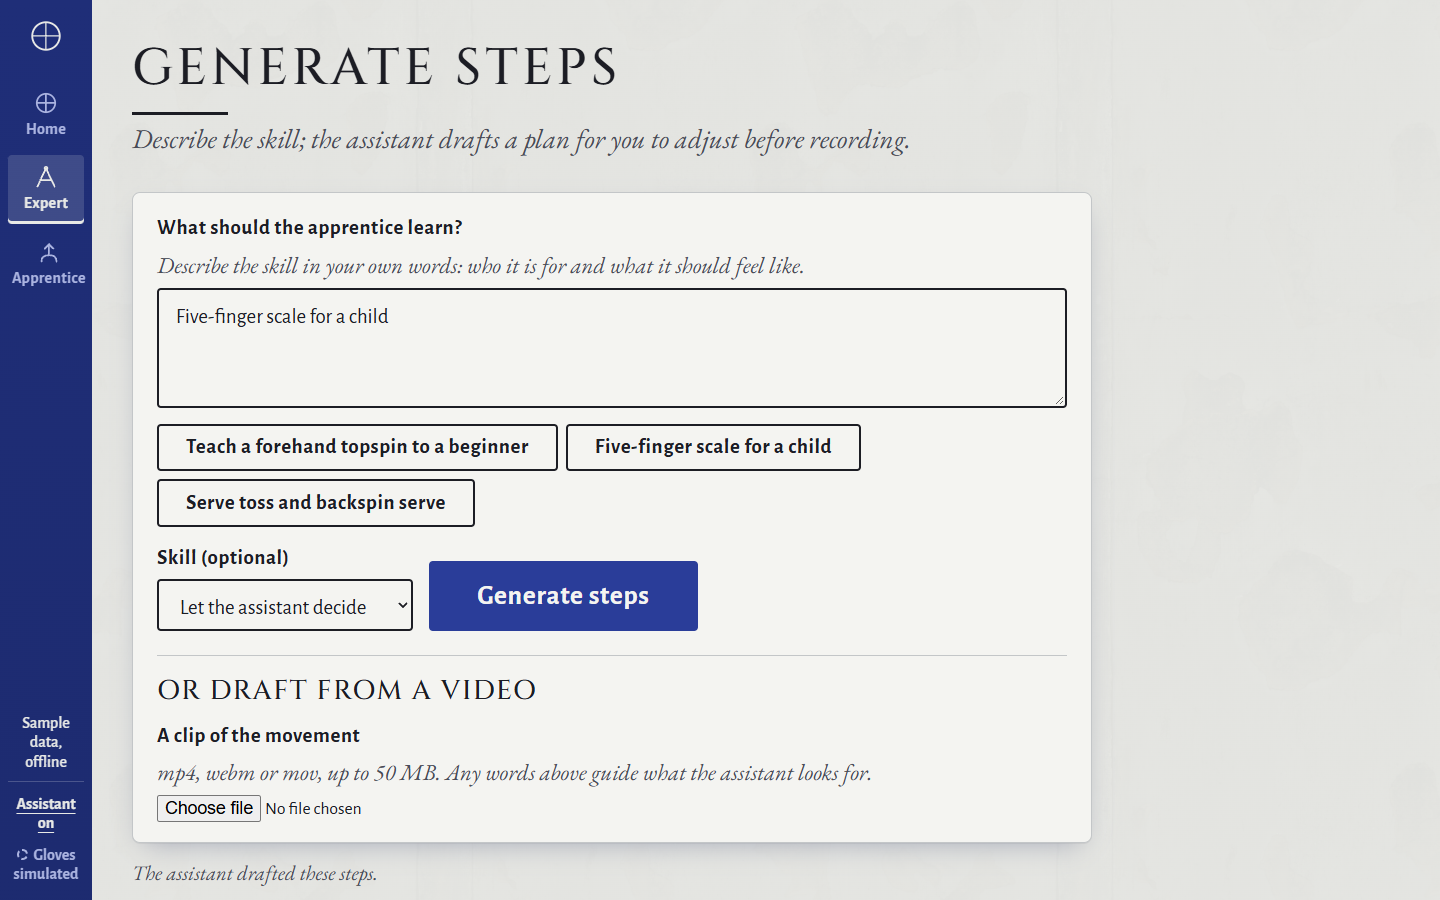
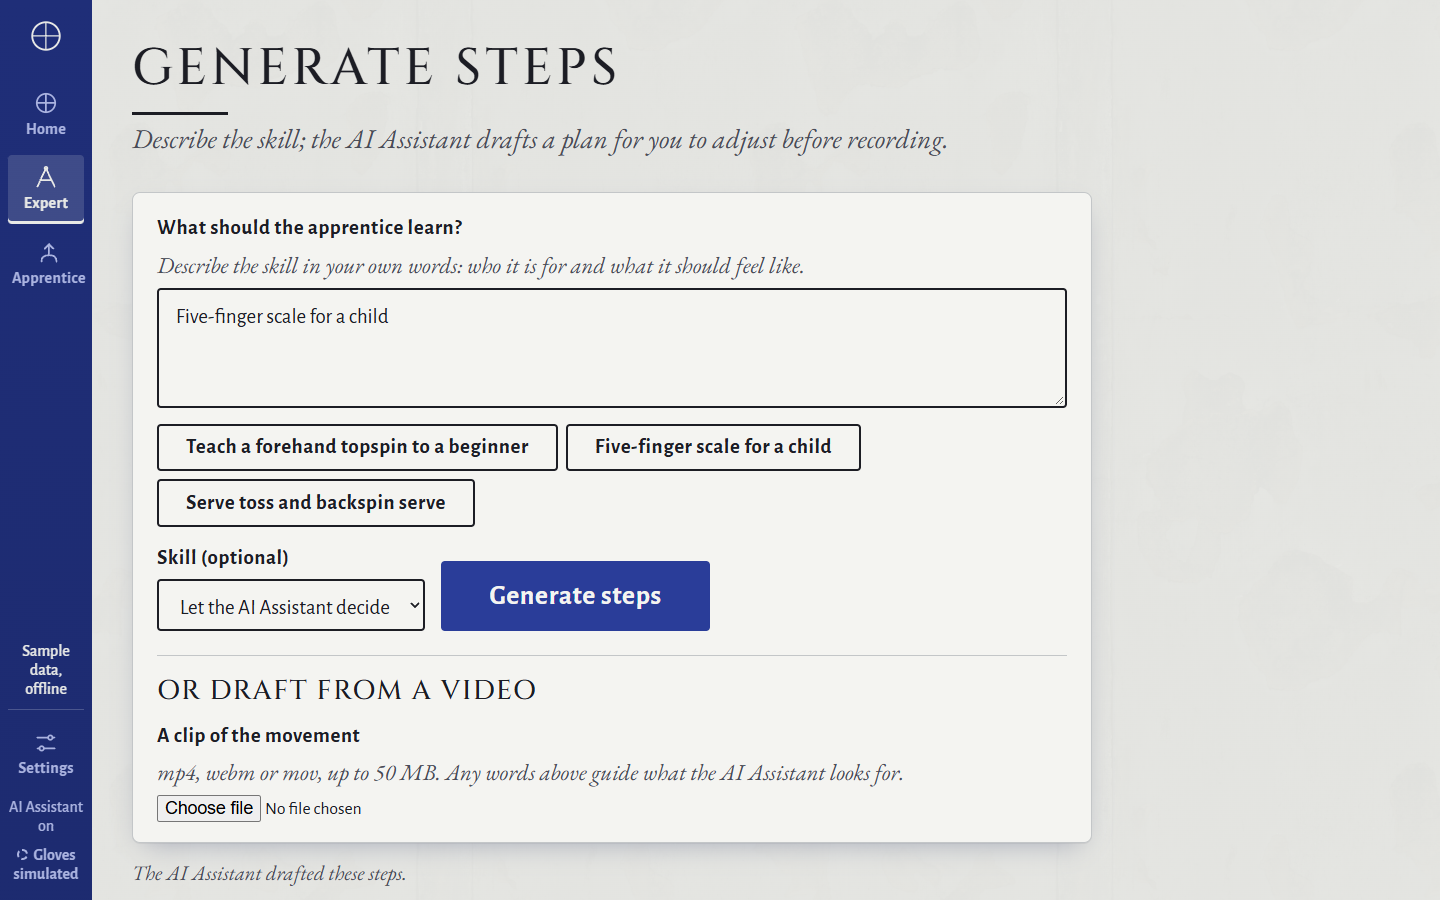
Add the settings walk, refresh screens and document Settings and the margin
settings-walk.mjs checks the dialog, persistence, AI Assistant gating, the margin on the score and the score flip at desktop and phone width. mock-walk switches the AI Assistant through Settings. CLAUDE.md, the READMEs and ARCHITECTURE.md describe Settings, the margin of error, the score views and the AI Assistant naming.

diff --git a/frontend/README.md b/frontend/README.md
@@ -27,13 +27,25 @@ The skill catalogue (names, descriptions, difficulty, keywords, hands, time to l
 
 See `ARCHITECTURE.md` for the folder map and rules.
 
-## The assistant switch
+## Settings
 
-`src/features/shared/assistant.ts` holds one flag for every language-model feature (`useAssistant()` in components, `isAssistantOn()` elsewhere), stored in localStorage as `apprentice.assistant` and on by default. The switch is the "Assistant on/off" text button in the rail footer (`app/AppShell.tsx`). While it is off, `api/client.ts` throws `AssistantOffError` for the paths in `ASSISTANT_PATHS` before any `fetch` or upload, and the mock router answers them with 403 as a second lock. Screens hide those entry points with a one-line note: Generate steps offers "Write the steps yourself" and "Start from scratch instead", "Describe the movement" becomes a note, and the plan card and the expert's note from the plan are hidden. `tests/assistant.test.ts` checks that no gated call reaches the network. In user copy the model is always "the assistant"; provider names appear only in the dev panel.
+"Settings" in the rail footer (`app/AppShell.tsx`; on a phone the last item of the bottom bar) opens `src/features/shared/SettingsDialog.tsx`: a modal dialog (focus moves in and is trapped, Escape or the scrim closes it, focus returns to the button, the app behind is `inert`). It holds the AI Assistant switch, the margin of error (four radio choices), the score view (3D scene or flat chart), "Add a prop" and "Reduce motion". `src/features/shared/settings.ts` stores them in localStorage (`apprentice.margin`, `apprentice.scoreView`, `apprentice.reduceMotion`; every read and write in try/catch) and exposes `useMargin`, `useScoreView`, `useReducedMotion` and `prefersReducedMotion()`. Reduce motion sets `data-reduce-motion` on `<html>`, which `styles/global.css` treats like the system preference. `e2e/settings-walk.mjs` checks the dialog, the switches, persistence, the margin on the score and the score flip at desktop and phone width.
+
+## Margin of error
+
+`src/api/margin.ts` mirrors `MARGIN_MULTIPLIERS` from the backend (strict 0.6, standard 1, relaxed 1.5, just_trying 2.5). The training room sends `margin` with every `POST /score`, builds the live coach band with `configFromTolerance(step.tolerance, margin)` (strings, fault rings, tints, tips, the match meter and the offline local score all read it), and shows the widened room for error. The score card says which margin judged the rep (`ScoreResult.margin`). `training/score/scoreRules.ts` keeps gold for mastery under the standard or strict margin only. The mock port (`mock/scoring.ts`, `mock/router.ts`) applies the same thresholds; `tests/mock-scoring.test.ts` pins margin values from the Python scorer and `tests/settings.test.ts` covers the store, the live band and the mock routes.
+
+## Score views
+
+`training/ScoreCard.tsx` shows the score through `training/score/ScoreView.tsx`: the 3D scene (`ScoreScene.tsx`, lazy loaded; the wooden hand on the bench, the overall score on a plaster plaque whose rule is gold only at mastery, each finger's score on a leader line, malachite when it held the shape and vermilion for the one correction) or the flat chart (`ScoreChart.tsx`, thick high-contrast bars with a tick at the clean mark 70). Settings picks which opens first; clicking, tapping, Enter or Space on the 3D scene flips it to the chart, and clicking the chart or "Show in 3D" flips back. Below 620 px the scene stacks its notes across the top and leaves out the plaque, so nothing covers the hand. The scene reuses `design/scene.tsx`, `design/Leaders.tsx` and `design/guild3d.tsx` from the round 3 prototypes, and falls back to the chart if WebGL fails.
+
+## The AI Assistant switch
+
+`src/features/shared/assistant.ts` holds one flag for every language-model feature (`useAssistant()` in components, `isAssistantOn()` elsewhere), stored in localStorage as `apprentice.assistant` and on by default. The switch is "Enable AI Assistant" in Settings; the rail footer shows "AI Assistant on" or "off" as plain text. While it is off, `api/client.ts` throws `AssistantOffError` for the paths in `ASSISTANT_PATHS` before any `fetch` or upload, and the mock router answers them with 403 as a second lock. Screens hide those entry points with a one-line note: Generate steps offers "Write the steps yourself" and "Start from scratch instead", "Describe the movement" becomes a note, and the plan card and the expert's note from the plan are hidden. `tests/assistant.test.ts` checks that no gated call reaches the network. In user copy the model is always "the AI Assistant"; provider names appear only in the dev panel.
 
 ## Hands and props
 
-`src/features/shared/sessionPrefs.ts` keeps two per-session stage preferences in sessionStorage: whether props are drawn (`useShowProps`, off by default, switched by `PropSwitch`) and the expert's hands choice per move (`defaultHands`, `rememberHands`; the default is the move's catalogue `hands`, else the last choice, else one hand, right). `HandsControl` (expert studio, step editor and the record dialog) sets one hand left or right or two hands, collapses into a summary once a take exists, and the take is recorded with `hands`. The training room coaches one hand of a two-handed step at a time (the learner picks which) and scores both with one `/score` call per side (`training/coach/twoHands.ts`). The Test your skills scenes always draw their racket and keyboard.
+`src/features/shared/sessionPrefs.ts` keeps two stage preferences: whether props are drawn (`useShowProps`, off by default, switched by `PropSwitch` or in Settings, kept in localStorage) and, per session in sessionStorage, the expert's hands choice per move (`defaultHands`, `rememberHands`; the default is the move's catalogue `hands`, else the last choice, else one hand, right). `HandsControl` (expert studio, step editor and the record dialog) sets one hand left or right or two hands, collapses into a summary once a take exists, and the take is recorded with `hands`. The training room coaches one hand of a two-handed step at a time (the learner picks which) and scores both with one `/score` call per side (`training/coach/twoHands.ts`). The Test your skills scenes always draw their racket and keyboard.
 
 ## Themes
 
@@ -94,7 +106,7 @@ What it does:
 - Lessons (with the two seed lessons), calibrations, recordings and the dev state persist in localStorage (memory if storage is blocked). Clear the keys starting `apprentice.mock.v1.` to reset.
 - A simulated glove stream at about 60 Hz with two hands, `set_motion` support, and a light 9 to 11 Hz tremor that the steadiness and smoothing settings (One Euro filter, same as the backend) reduce. Recording and calibration capture from this stream.
 - `/score` is a pure TypeScript port of `backend/app/services/scoring.py` (per-finger DTW, total-flexion error, Gaussian mapping, calibration, hints). `tests/mock-scoring.test.ts` pins it to numbers produced by the Python scorer.
-- LLM routes (`lessons/generate`, `generate_from_video`, `motion/from_text`, `coach/plan`) use the deterministic templates of the backend fake provider and report `provider: "mock"`. `/coach/hint` is algorithmic. All five answer 403 while the assistant switch is off. `/vision/hands` answers 503. `/ingest/frames` feeds frames into the mock stream once the source is `external`.
+- LLM routes (`lessons/generate`, `generate_from_video`, `motion/from_text`, `coach/plan`) use the deterministic templates of the backend fake provider and report `provider: "mock"`. `/coach/hint` is algorithmic. All five answer 403 while the AI Assistant is off. `/score` and `/coach/hint` accept `margin` like the backend. `/vision/hands` answers 503. `/ingest/frames` feeds frames into the mock stream once the source is `external`.
 - Errors use the backend's status codes and `{detail}` body; unknown routes give 404.
 
 Walk the whole app in mock mode with `node e2e/mock-walk.mjs` (screenshots go to `docs/screens/mock-*.png`). The move catalogue and seed lessons in `src/mock/data/` are copies of `backend/app/data`; refresh them if the backend ones change.

diff --git a/README.md b/README.md
@@ -1,6 +1,6 @@
 # Apprentice
 
-Apprentice is a hand-skill trainer built for Junction 2026 (Rokoko Smartgloves II track). An expert records a skill with Rokoko gloves, and a learner trains against it in 3D with marionette strings, a ghost hand and a shadow as guidance. Each attempt is scored per finger with dynamic time warping (DTW), an optional assistant (a language model, Gemini by default) drafts lessons and practice plans, and a staged learning pipeline leads to a test (table tennis grip and swing, piano).
+Apprentice is a hand-skill trainer built for Junction 2026 (Rokoko Smartgloves II track). An expert records a skill with Rokoko gloves, and a learner trains against it in 3D with marionette strings, a ghost hand and a shadow as guidance. Each attempt is scored per finger with dynamic time warping (DTW), an optional AI Assistant (a language model, Gemini by default) drafts lessons and practice plans, the learner chooses a margin of error from strict to "just trying it", and a staged learning pipeline leads to a test (table tennis grip and swing, piano).
 
 The backend is FastAPI (Python 3.12, uv). The frontend is React, Vite and three.js. The frontend can run alone in mock mode, with no backend.
 
@@ -33,13 +33,19 @@ The frontend carries a port of the backend (`frontend/src/mock/`), with data kep
 - `VITE_MOCK=1` (environment variable at build or dev time) forces it on.
 - It also starts by itself when `/api/health` does not answer. The left rail then shows "Sample data, offline".
 
-## The assistant switch
+## Settings and the AI Assistant
 
-Every language-model feature is "the assistant": drafting steps from a sentence or a video, reading a movement described in words, the practice plan and written hints. The left rail has a plain "Assistant on/off" switch, remembered in the browser (localStorage `apprentice.assistant`, on by default). While it is off the app sends nothing to `/lessons/generate`, `/lessons/generate_from_video`, `/coach/hint`, `/coach/plan` or `/motion/from_text` (the API client refuses them before any request, mock mode included), those entry points show a one-line note instead, and everything else works: steps can be written by hand or recorded from scratch, and scoring, hints from the score and the live corrections are algorithmic and do not need the assistant.
+"Settings" in the left rail (the bottom bar on a phone) opens one accessible panel, remembered in the browser: the AI Assistant switch, the margin of error, how the score is shown (3D scene by default, or a flat high-contrast chart; clicking the score flips between them), "Add a prop" and reduced motion.
+
+Every language-model feature is the AI Assistant: drafting steps from a sentence or a video, reading a movement described in words, the practice plan and written hints. "Enable AI Assistant" in Settings switches it (localStorage `apprentice.assistant`, on by default) and the rail shows "AI Assistant on" or "off". While it is off the app sends nothing to `/lessons/generate`, `/lessons/generate_from_video`, `/coach/hint`, `/coach/plan` or `/motion/from_text` (the API client refuses them before any request, mock mode included), those entry points show a one-line note instead, and everything else works: steps can be written by hand or recorded from scratch, and scoring, hints from the score and the live corrections are algorithmic and do not need the AI Assistant.
+
+## Margin of error
+
+The expert sets each step's room for error; the learner then chooses how strict to be: Strict (0.6 times the room), Standard (the expert's own, the default), Relaxed (1.5 times) or Just trying it (2.5 times). With table tennis, a relaxed margin lets a slightly wrong swing pass with no correction, while strict demands accuracy. The margin widens or narrows the DTW scorer's tolerance and the hint thresholds on the backend (`margin` on `POST /score` and `POST /coach/hint`), the live corrections in the browser use the same multiplier, and the score screen says which margin judged the rep. Relaxed and looser margins stay silent inside the widened band, and gold is kept for the standard or strict margin.
 
 ## Hands and props
 
-The expert chooses one hand (left or right) or two hands for each move or step. Only those gloves are shown and captured (`POST /recordings/start` takes `hands`), and the learner trains with the same set-up; a two-handed step coaches one hand at a time on the stage and scores both, the weaker hand setting the score. Props (racket, keyboard) are off by default because the hands still clip through them; an "Add a prop" switch in the studio and in the training room's Room settings turns them on for the session. The Test your skills games always keep their racket and keyboard.
+The expert chooses one hand (left or right) or two hands for each move or step. Only those gloves are shown and captured (`POST /recordings/start` takes `hands`), and the learner trains with the same set-up; a two-handed step coaches one hand at a time on the stage and scores both, the weaker hand setting the score. Props (racket, keyboard) are off by default because the hands still clip through them; an "Add a prop" switch in the studio, in the training room's Room settings and in Settings turns them on (remembered in the browser). The Test your skills games always keep their racket and keyboard.
 
 ## Demo: two windows
 

diff --git a/CLAUDE.md b/CLAUDE.md
@@ -14,11 +14,13 @@ Apprentice: experts record hand skills with Rokoko gloves, learners train agains
 ## Run
 
 - Backend (in `backend/`): `uv sync`, then `uv run uvicorn app.main:app --port 8000 --reload`. Tests: `uv run pytest -q`.
-- Frontend (in `frontend/`): `npm install`, `npm run dev` (port 5173), `npm run build`, `npm run lint`, `npm test`, `npm run e2e` (backend up), `node e2e/mock-walk.mjs` (no backend), `node e2e/learner-real.mjs` (backend with `GLOVE_SOURCE=simulator`, `LLM_PROVIDER=fake`).
+- Frontend (in `frontend/`): `npm install`, `npm run dev` (port 5173), `npm run build`, `npm run lint`, `npm test`, `npm run e2e` (backend up), `node e2e/mock-walk.mjs` and `node e2e/settings-walk.mjs` (no backend; `E2E_PORT` picks the port), `node e2e/learner-real.mjs` (backend with `GLOVE_SOURCE=simulator`, `LLM_PROVIDER=fake`).
 - Local runs: `LLM_PROVIDER=fake`. Mock mode: `?mock=1` / `?mock=0` / `VITE_MOCK=1`, automatic when `/api/health` fails. Dev panel `?dev=1` (per tab, sessionStorage; `?dev=0` clears). Routes: `/expert`, `/apprentice`, `/playground`, `/lab`.
 - Python uses uv only. Never write `pip install` or manual venvs.
-- Assistant switch: the "Assistant on/off" text switch in the rail footer (localStorage `apprentice.assistant`, default on) gates every language-model feature. The flag lives in `frontend/src/features/shared/assistant.ts`; `api/client.ts` refuses `/lessons/generate`, `/lessons/generate_from_video`, `/coach/hint`, `/coach/plan` and `/motion/from_text` before any fetch while it is off (the mock router refuses them too). New LLM endpoints must be added to `ASSISTANT_PATHS`.
-- Stage preferences (sessionStorage, `features/shared/sessionPrefs.ts`): props (racket, keyboard) are off by default behind an "Add a prop" switch, except in the Test your skills games; the expert's last hands choice (one hand left or right, or two) is remembered per move.
+- Settings: the "Settings" entry in the rail footer (bottom bar on a phone) opens `features/shared/SettingsDialog.tsx`, a modal with the AI Assistant switch, the margin of error, the score view (3D default, or flat chart), "Add a prop" and reduced motion, all in localStorage (`features/shared/settings.ts`, keys `apprentice.margin`, `apprentice.scoreView`, `apprentice.reduceMotion`). The 3D score flips to the flat chart and back on click, tap, Enter or Space.
+- AI Assistant switch: "Enable AI Assistant" in Settings (localStorage `apprentice.assistant`, default on; the rail shows "AI Assistant on/off" as plain text) gates every language-model feature. The flag lives in `frontend/src/features/shared/assistant.ts`; `api/client.ts` refuses `/lessons/generate`, `/lessons/generate_from_video`, `/coach/hint`, `/coach/plan` and `/motion/from_text` before any fetch while it is off (the mock router refuses them too). New LLM endpoints must be added to `ASSISTANT_PATHS`.
+- Stage preferences (`features/shared/sessionPrefs.ts`): props (racket, keyboard) are off by default behind an "Add a prop" switch (also in Settings, localStorage), except in the Test your skills games; the expert's last hands choice (one hand left or right, or two) is remembered per move for the session (sessionStorage).
+- Margin of error: the learner's `margin` (strict, standard, relaxed, just_trying) multiplies the step tolerance and the hint thresholds (`MARGIN_MULTIPLIERS` in `backend/app/constants.py`, mirrored in `frontend/src/api/margin.ts`), on `POST /score`, `POST /coach/hint`, the mock port and the live corrections (`configFromTolerance`). Standard changes nothing. Relaxed and looser stay quiet inside the widened band, and gold stays for standard or strict.
 
 ## Hard rules
 
@@ -27,7 +29,7 @@ Apprentice: experts record hand skills with Rokoko gloves, learners train agains
 3. Never call paid APIs in tests. `backend/tests/conftest.py` blanks the Gemini key. Never print or copy a key from `backend/.env`; name variables only (`backend/.env.example`). Never commit `.env`.
 4. No em dashes anywhere (code, docs, commits). Use a hyphen, comma or colon.
 5. Design: Renaissance bottega theme. Gold only for mastery. Vermilion only for corrections. Malachite for correct. No status pills, no kicker labels. Text at least 16px, readable from 3 m.
-6. User-facing copy says "expert", not "master" (the top rank is "Sealed", and the seal reads "Sealed by {expert name}"). Wire fields such as `master_name` and code paths under `features/master` keep their names. Any language model in the UI is "the assistant": never "AI", "Gemini" or "coach" in user copy (provider names only in the dev panel). The algorithmic scorer and the live finger corrections are not the assistant.
+6. User-facing copy says "expert", not "master" (the top rank is "Sealed", and the seal reads "Sealed by {expert name}"). Wire fields such as `master_name` and code paths under `features/master` keep their names. Any language model in the UI is named openly as "the AI Assistant" (the switch reads "Enable AI Assistant"): never "Gemini", "Gemma" or "coach" in user copy (provider names only in the dev panel). The algorithmic scorer and the live finger corrections are not the AI Assistant.
 7. Commit only when asked; then push to the branch remote, authored as the user only, no Claude trailers. Ask before force push or push to main.
 
 ## Unverified

diff --git a/frontend/ARCHITECTURE.md b/frontend/ARCHITECTURE.md
@@ -8,7 +8,9 @@ src/
   app/                     App (route table), AppShell (lapis rail), RoleSelect (/), HandLab (/lab), app.css
   features/
     master/                MasterHome (/master) + placeholder pages: scratch, generate, lesson studio
-    apprentice/            skills/ (dashboard, skill page, catalogue), course, training, test
+    apprentice/            skills/ (dashboard, skill page, catalogue), course, training (score/ = 3D and flat score views), test
+    shared/                pieces both sides use: assistant.ts (AI Assistant flag), settings.ts (margin, score view,
+                           reduced motion), SettingsDialog (the Settings panel), sessionPrefs, PropSwitch, calibration
   components/
     ui/                    UI kit: Button, ButtonLink, Card, Badge, Stepper, Countdown, RecordButton, Tabs, Field, TextArea, Toast
     PageHeader.tsx         standard screen header
@@ -17,6 +19,7 @@ src/
   three/                   3D system (see below)
   api/
     types.ts               wire types, mirror of docs/CONTRACT.md
+    margin.ts              margin of error multipliers, mirror of backend/app/constants.py
     client.ts              typed fetch wrapper `api.*`, ApiError
     useGloveStream.ts      shared auto-reconnecting /ws/gloves
     hooks.ts               useLessons, useLesson, useMoves, useDevState
@@ -42,6 +45,8 @@ Routes are defined once in `src/app/App.tsx`. Feature agents replace the page co
 7. Never create a second WebSocket; use `useGloveStream` (it shares one connection).
 8. No em dashes anywhere. UK English in docstrings. Comment the why, not the what.
 9. New screens live in `features/master/` or `features/apprentice/`. Shared pieces go in `components/`; anything 3D goes in `three/`.
+10. Learner settings live in `features/shared/settings.ts` (localStorage, try/catch on every access) and are edited only in the Settings panel. Anything that judges a rep reads the margin of error: send `margin` to the scorer and build live bands with `configFromTolerance(tolerance, margin)`.
+11. Motion: respect `prefersReducedMotion()` from `features/shared/settings.ts` (the learner's choice or the device's) for anything animated in script; CSS transitions are already cut by `data-reduce-motion` and the media query.
 
 ## three/ overview
 

diff --git a/backend/README.md b/backend/README.md
@@ -55,6 +55,8 @@ The Gemini free tier is small (about 5 requests per minute and 20 per day for `g
 
 `POST /api/score` accepts `attempt_calibration_id` or `use_latest_calibration` (and optionally `reference_calibration_id`). The attempt is normalised by the learner's flat and fist ranges and mapped into the reference's space, so a stiffer hand is not penalised for a smaller range. Incomplete calibrations are ignored with a message in `warnings`. Tests in `tests/test_scoring.py`.
 
+`POST /api/score` and `POST /api/coach/hint` also take the learner's `margin` (`strict`, `standard`, `relaxed`, `just_trying`). `MARGIN_MULTIPLIERS` in `app/constants.py` scales the step tolerance and every hint threshold (`hints.thresholds`); the relaxed margins (`MARGIN_QUIET`) also stay silent inside the widened band. Without a margin, or with `standard`, every number is unchanged. `ScoreResult.margin` echoes it.
+
 ## Rokoko Studio setup
 
 In Studio: Livestreaming, Custom, UDP, JSON v3 (or v4), port 14043, target the laptop. Then switch the source live with `POST /api/dev/state {"glove_source": "rokoko_udp"}`. The JSON field names are verified (see `../research/09_rokoko.md`); the flexion axis and sign are still to be probed with `scripts/probe_flexion.py` while someone wears a glove. All payload-shape logic is in `app/services/gloves/rokoko_mapper.py` and the axis and sign are in `app/constants.py` (`ROKOKO_FLEX_AXIS`, `ROKOKO_FLEX_SIGN`). The first unrecognised frame shape is logged once.
